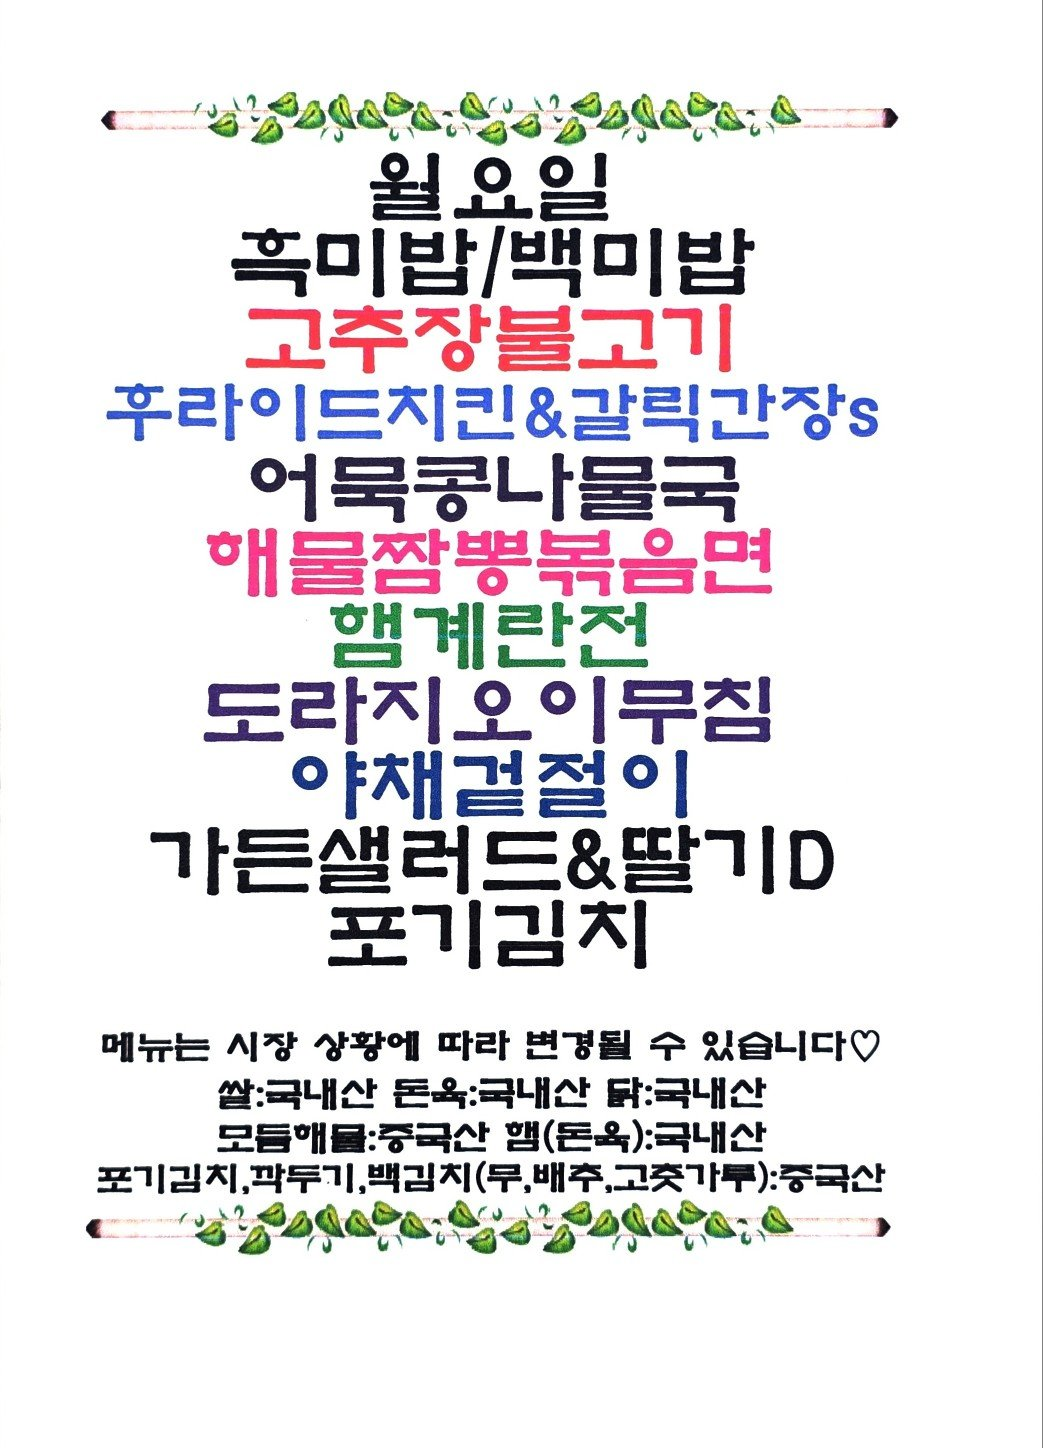
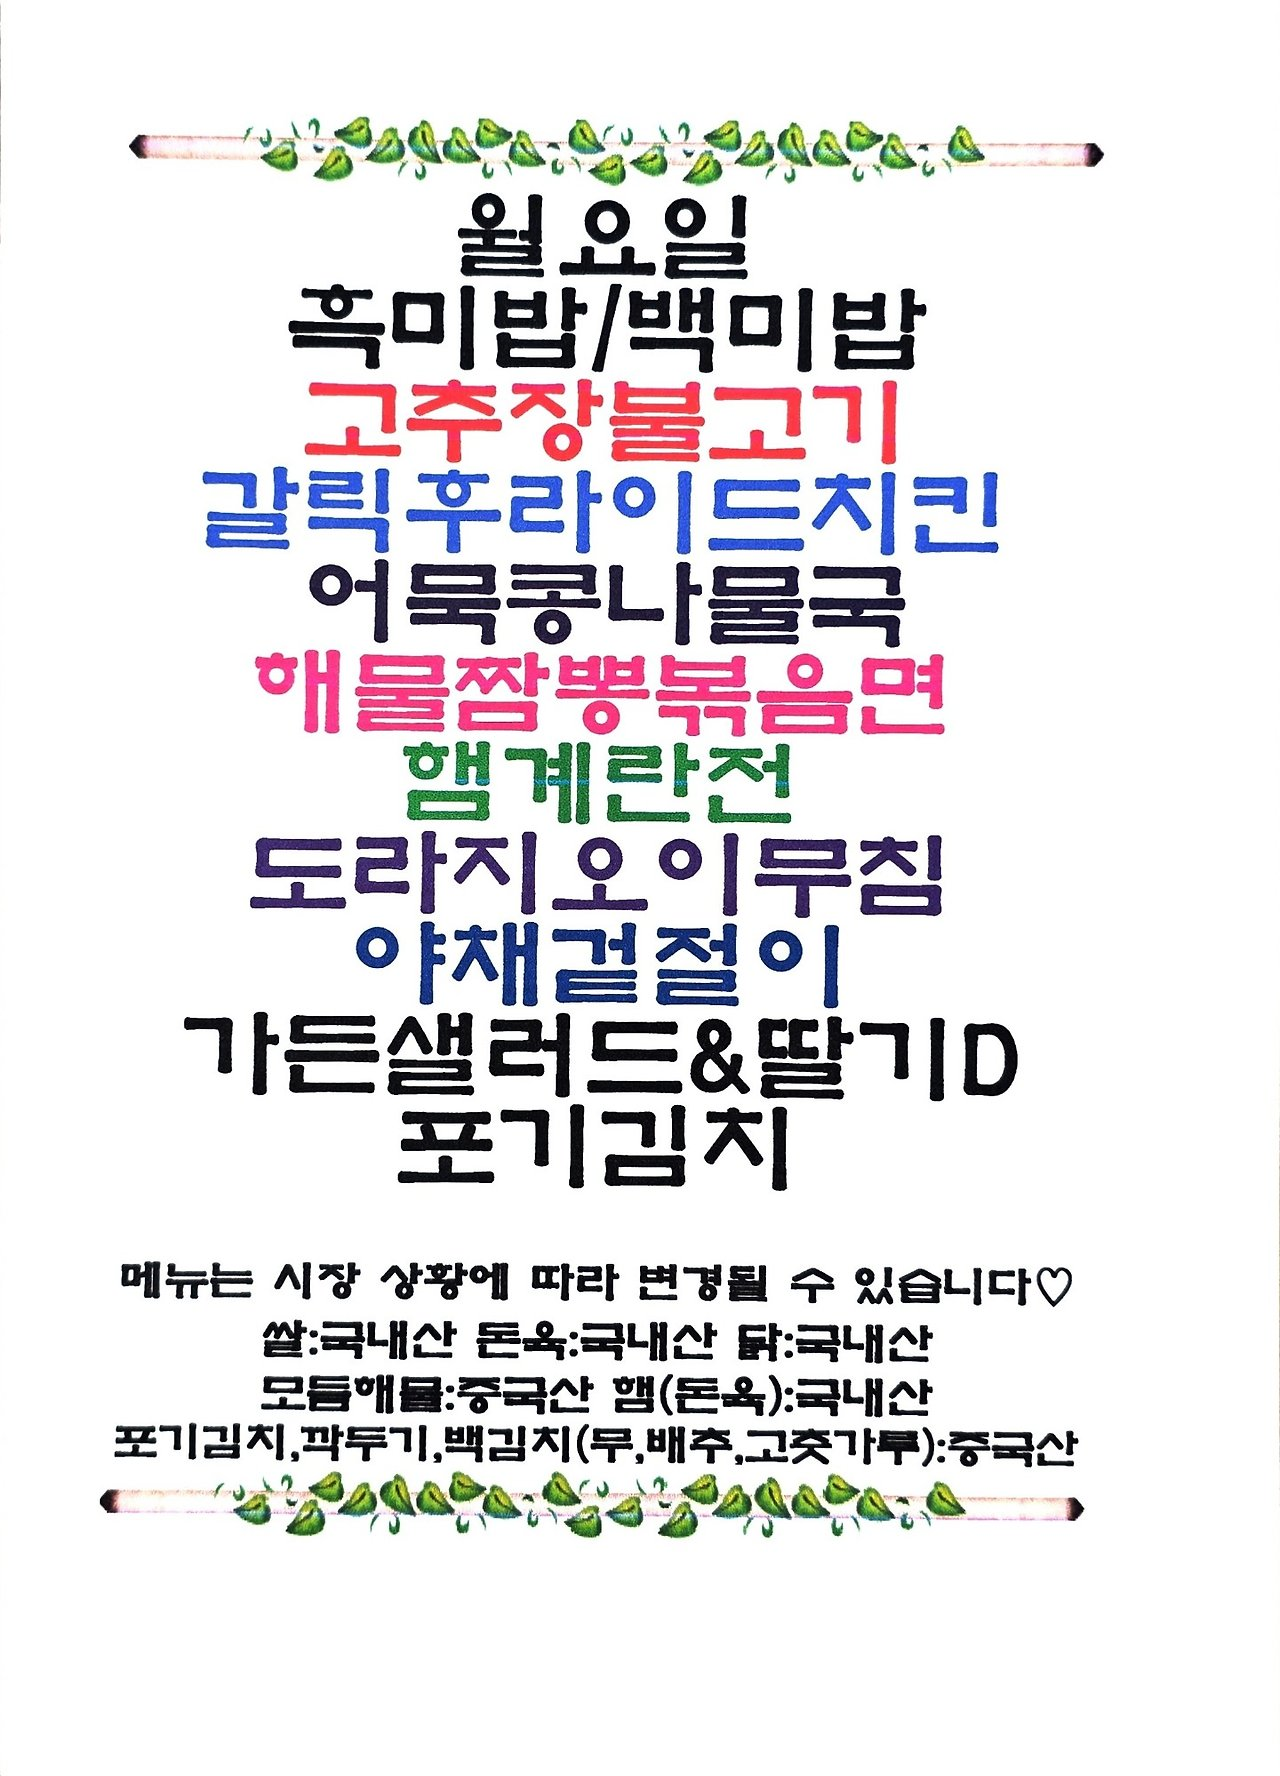
Update menu board assets

diff --git a/menu-today/index.html b/menu-today/index.html
@@ -209,7 +209,7 @@
 
     <section class="meta-bar">
       <div class="meta-card"><div class="meta-label">기준 날짜</div><div class="meta-value">2026년 6월 15일 월요일</div></div>
-      <div class="meta-card"><div class="meta-label">최종 가져온 시간</div><div class="meta-value">2026-06-15 10:18:17</div></div>
+      <div class="meta-card"><div class="meta-label">최종 가져온 시간</div><div class="meta-value">2026-06-15 10:33:24</div></div>
       <div class="meta-card"><div class="meta-label">확인 완료</div><div class="meta-value">10개 식당</div></div>
       <div class="meta-card"><div class="meta-label">준비중</div><div class="meta-value">3개 채널</div></div>
     </section>
@@ -305,7 +305,7 @@
             <div class="sub">스타밸리</div>
           </div>
         </div>
-        <div class="menu-inline-image"><img src="./images/starvalley-food4u-post.png" alt="스타밸리푸드포유 식단 이미지"></div><ul><li>고주장불고기</li><li>a = 으려면</li><li>a c [ 지 오이 무침</li><li>야재결절이</li><li>T [는샐러드 &amp; 딸&quot;! D</li><li>푸기김치</li><li>혹미밥 / 백미밥</li></ul>
+        <div class="menu-inline-image"><img src="./images/starvalley-food4u-post.png" alt="스타밸리푸드포유 식단 이미지"></div><ul><li>일요일</li><li>고수 os</li><li>과릭꾸라이트지린</li><li>어묵콩나 ==</li><li>램계란전</li><li>혹미밥 / 백미밥</li><li>고주장불고기</li></ul>
       </article>
 
       <article class="restaurant-card">
